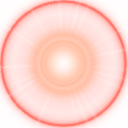
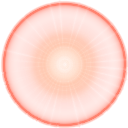
ponto de destino marcado ao andar e mudanca nas texturas de luta

diff --git a/src/engine/dccnit.cpp b/src/engine/dccnit.cpp
@@ -116,6 +116,7 @@ engine::~engine()
    /* Clear Other Textures */
    glDeleteTextures(1, &normalMoveCircle);
    glDeleteTextures(1, &fullMoveCircle);
+   glDeleteTextures(1, &destinyImage);
 
    /* Clear Characters */
    if(NPCs)
@@ -707,6 +708,24 @@ void engine::Init(SDL_Surface *screen)
    glGenTextures(1, &fullMoveCircle);
 
    glBindTexture(GL_TEXTURE_2D, fullMoveCircle);
+   glTexImage2D(GL_TEXTURE_2D,0,GL_RGBA,img->w,img->h, 
+                0,GL_RGBA, GL_UNSIGNED_BYTE, img->pixels);
+
+   glTexParameteri(GL_TEXTURE_2D, GL_TEXTURE_MAG_FILTER, GL_LINEAR);
+   glTexParameteri(GL_TEXTURE_2D, GL_TEXTURE_MIN_FILTER, GL_LINEAR);
+
+   SDL_FreeSurface(img);
+
+   /* Move Destiny */
+   img = IMG_Load("../data/texturas/walk/destino.png");
+   if(!img)
+   {
+      printf("Error: can't Load Texure: destino.png\n");
+   }
+
+   glGenTextures(1, &destinyImage);
+
+   glBindTexture(GL_TEXTURE_2D, destinyImage);
    glTexImage2D(GL_TEXTURE_2D,0,GL_RGBA,img->w,img->h, 
                 0,GL_RGBA, GL_UNSIGNED_BYTE, img->pixels);
 
@@ -1719,7 +1738,32 @@ void engine::Draw()
 
    if(walkStatus == ENGINE_WALK_MOUSE)
    {
-      PCs->personagemAtivo->pathFind.drawPath();
+      GLfloat destX =0, destZ=0;
+      //PCs->personagemAtivo->pathFind.drawPath();
+      PCs->personagemAtivo->pathFind.getDestiny(destX, destZ);
+      
+      glDisable(GL_LIGHTING);
+       /* Draw Movimentation Destiny */
+       glColor4f(1,1,1,1);
+       glEnable(GL_BLEND);
+       glBlendFunc(GL_SRC_ALPHA,GL_ONE_MINUS_SRC_ALPHA);
+       glPushMatrix();
+         glEnable(GL_TEXTURE_2D);
+         glBindTexture(GL_TEXTURE_2D, destinyImage );
+         glBegin(GL_QUADS);
+            glTexCoord2f(0,0);
+            glVertex3f(destX-4, 0.1, destZ-4);
+            glTexCoord2f(0,1);
+            glVertex3f(destX-4, 0.1, destZ+4);
+            glTexCoord2f(1,1);
+            glVertex3f(destX+4, 0.1, destZ+4);
+            glTexCoord2f(1,0);
+            glVertex3f(destX+4, 0.1, destZ-4);
+         glEnd();
+         glDisable(GL_TEXTURE_2D);
+         glDisable(GL_BLEND);
+         glEnable(GL_LIGHTING);
+      glPopMatrix();
    }
 
    /* Draw Combat Mode Things */

diff --git a/src/engine/dccnit.h b/src/engine/dccnit.h
@@ -198,6 +198,7 @@ class engine
       cursor* cursors;             /**< Utilized mouse cursors */
 
       int walkStatus;              /**< Engine Walk Status */
+      GLuint destinyImage;         /**< Move Destiny Image */
 
       collision colisionDetect;    /**< The collision detect Module */
  

diff --git a/src/ia/astar.h b/src/ia/astar.h
@@ -84,6 +84,8 @@ class aStar
       /*! Get the New Character Position, based on Path Found previously */
       bool getNewPosition(GLfloat& posX, GLfloat& posZ, GLfloat& ori);
 
+      void getDestiny(GLfloat& destX, GLfloat& destZ);
+
       /*! Draws the founded path */
       void drawPath();
 

diff --git a/src/ia/astar.cpp b/src/ia/astar.cpp
@@ -314,4 +314,9 @@ pointStar* listStar::findLowest()
    return(lowest);
 }
 
+void aStar::getDestiny(GLfloat& destX, GLfloat& destZ)
+{
+   destX = destinyX;
+   destZ = destinyZ;
+}
 
